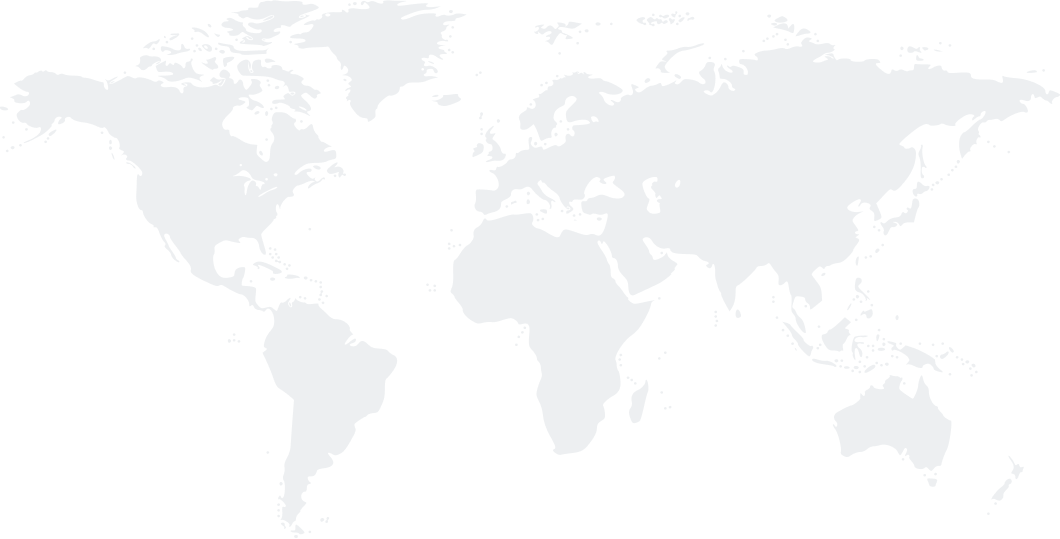
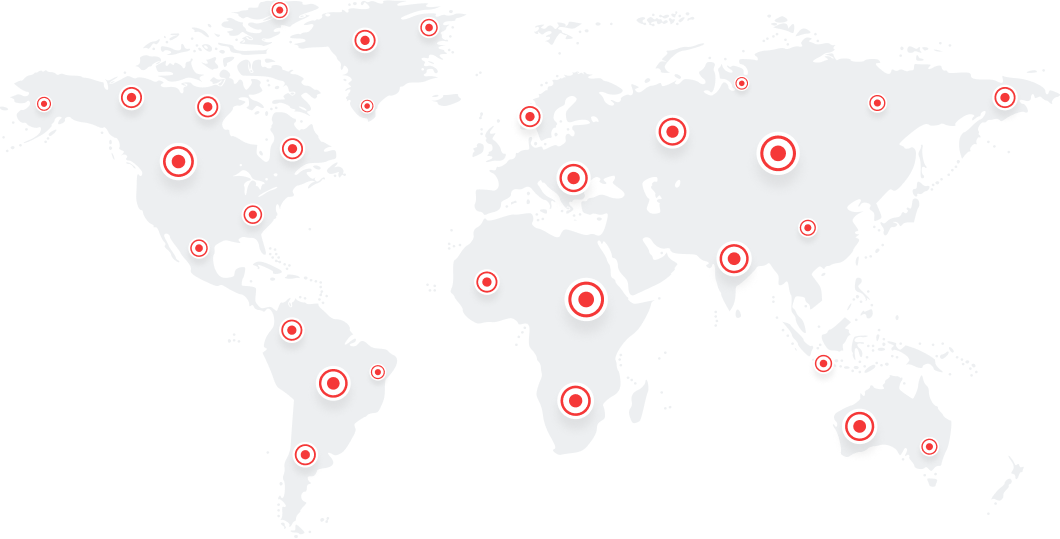
changed 3

diff --git a/index.html b/index.html
@@ -93,6 +93,36 @@
             </ul>
          </div>
       </section>
+
+      <section class="card container">
+         <h2 class="card_title">
+            Huge Global Network of Fast VPN
+         </h2>
+         <p class="card_text">
+            See LaslesVPN everywhere to make it easier for you when you move locations.
+         </p>
+         <img class="card_img" src="./images/world_card.png" alt="world card">
+      </section>
+
+      <section class="sites container">
+         <ul class="sites_list">
+            <li class="sites_item">
+               <img class="sites_img" src="./images/sponsored_0.png" alt="netflix image">
+            </li>
+            <li class="sites_item">
+               <img class="sites_img" src="./images/sponsored_1.png" alt="netflix image">
+            </li>
+            <li class="sites_item">
+               <img class="sites_img" src="./images/sponsored_2.png" alt="netflix image">
+            </li>
+            <li class="sites_item">
+               <img class="sites_img" src="./images/sponsored_3.png" alt="netflix image">
+            </li>
+            <li class="sites_item">
+               <img class="sites_img" src="./images/sponsored_4.png" alt="netflix image">
+            </li>
+         </ul>
+      </section>
    </main>
 
 </body>

diff --git a/css/main.css b/css/main.css
@@ -156,3 +156,58 @@
    font-weight: 400;
    line-height: 30px; /* 214.286% */
 }
+
+/* CARD  */
+
+.card {
+   text-align: center;
+}
+
+.card_title{
+   margin-left: auto;
+   margin-right: auto;
+   margin-bottom: 20px;
+   width: 340px;
+   color: #0B132A;
+text-align: center;
+font-family: Rubik;
+font-size: 35px;
+font-style: normal;
+font-weight: 500;
+line-height: 50px; /* 142.857% */
+}
+
+.card_text {
+   width: 500px;
+   margin-left: auto;
+   margin-right: auto;
+   margin-bottom: 150px;
+   color: #4F5665;
+text-align: center;
+font-family: Rubik;
+font-size: 16px;
+font-style: normal;
+font-weight: 400;
+line-height: 30px; /* 187.5% */
+}
+
+/* SITES  */
+
+.sites {
+
+}
+
+.sites_list {
+   list-style-type: none;
+   display: flex;
+   justify-content: space-between;
+   align-items: center;
+}
+
+.sites_item{
+
+}
+
+.sites_img{
+   
+}
